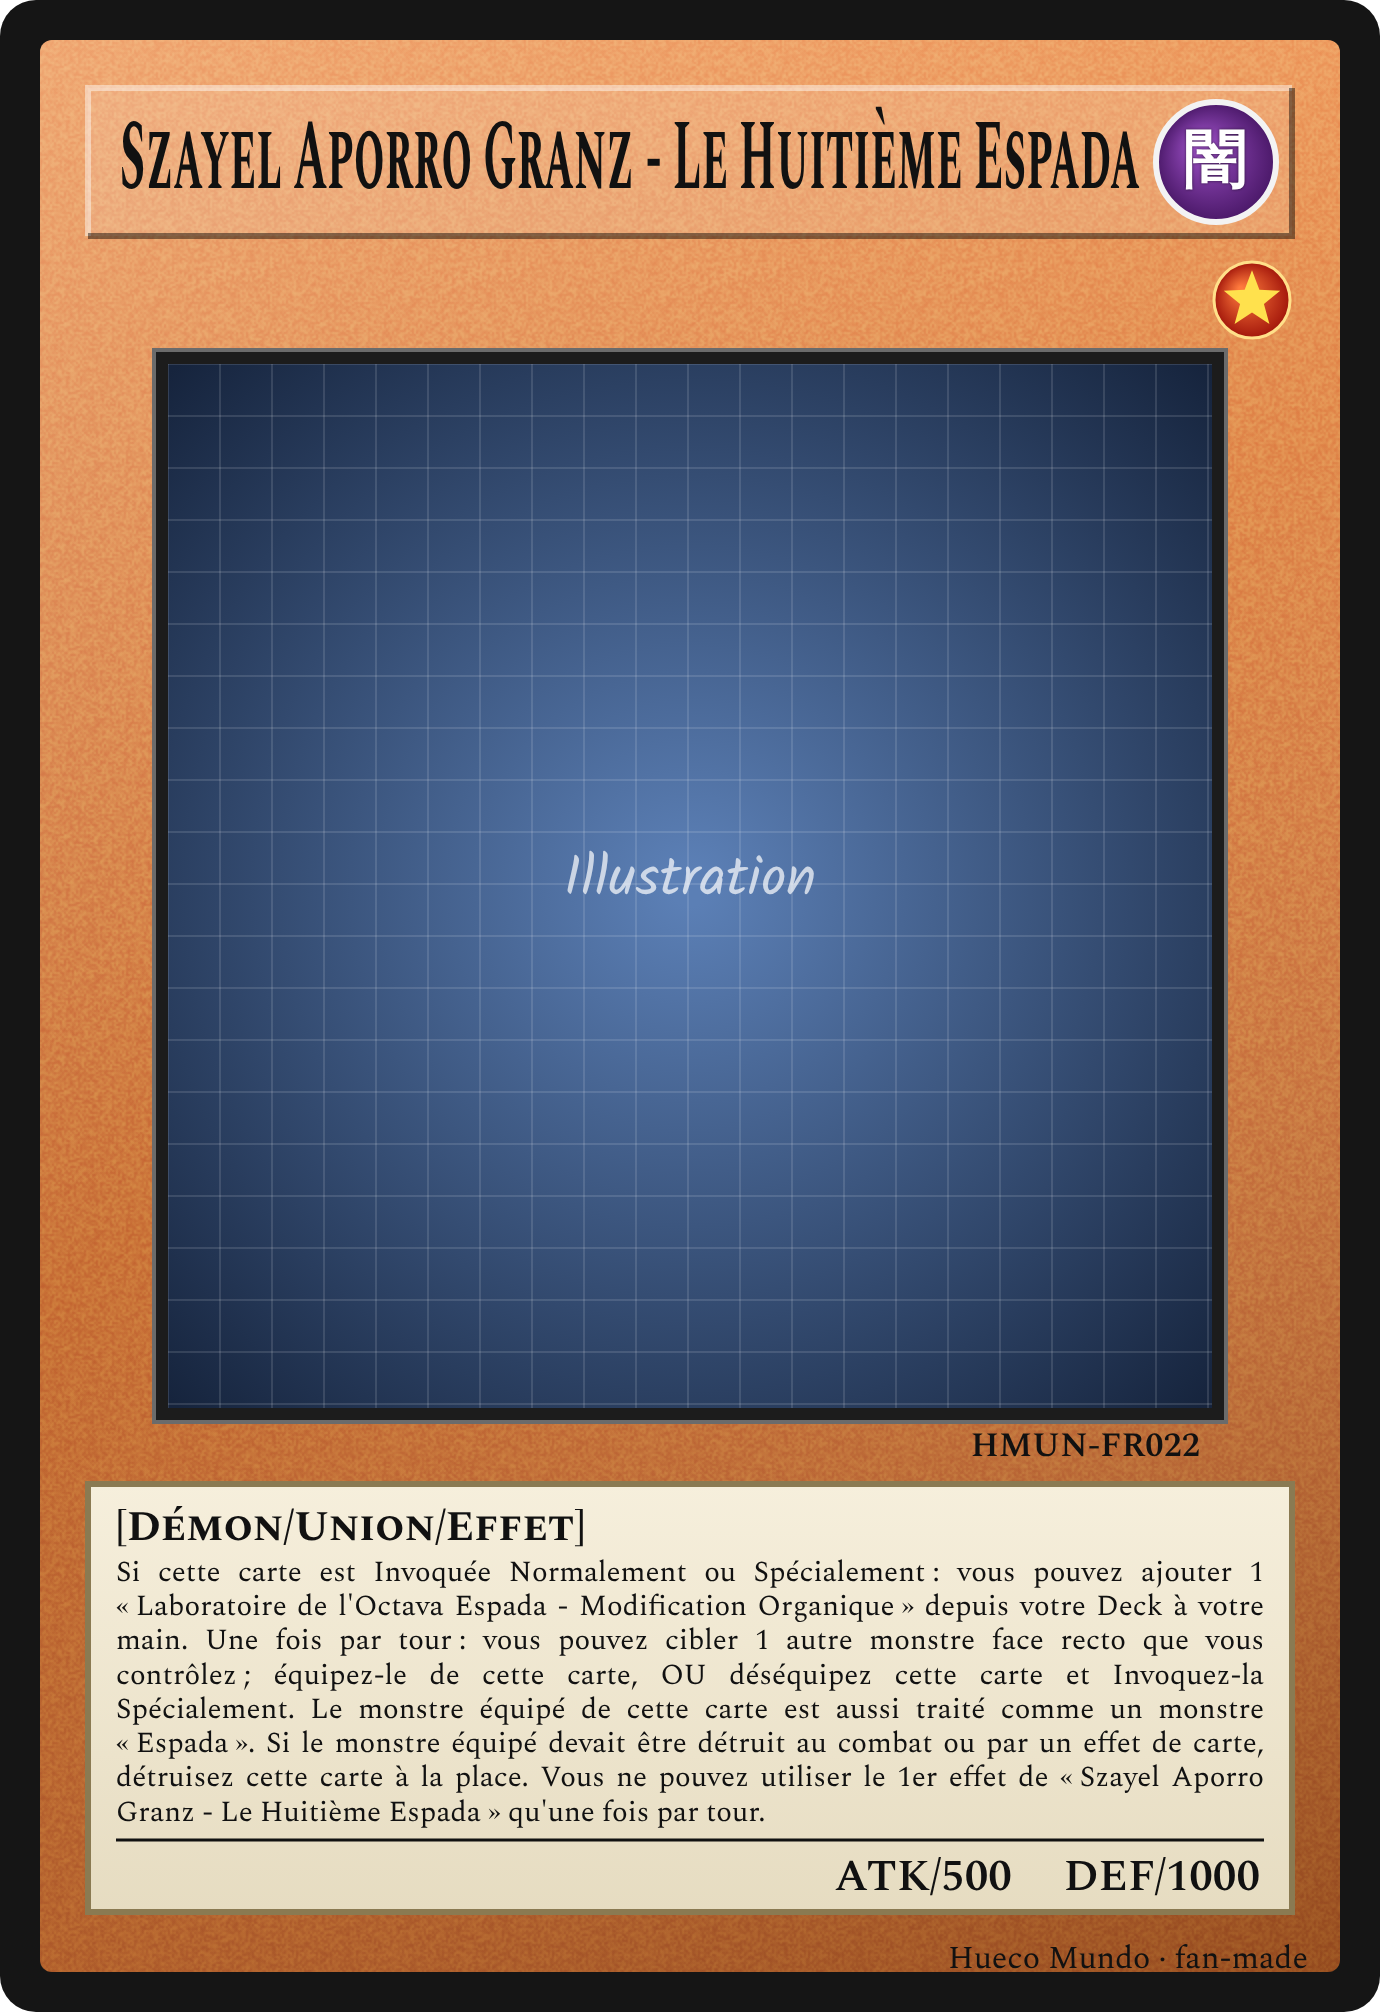
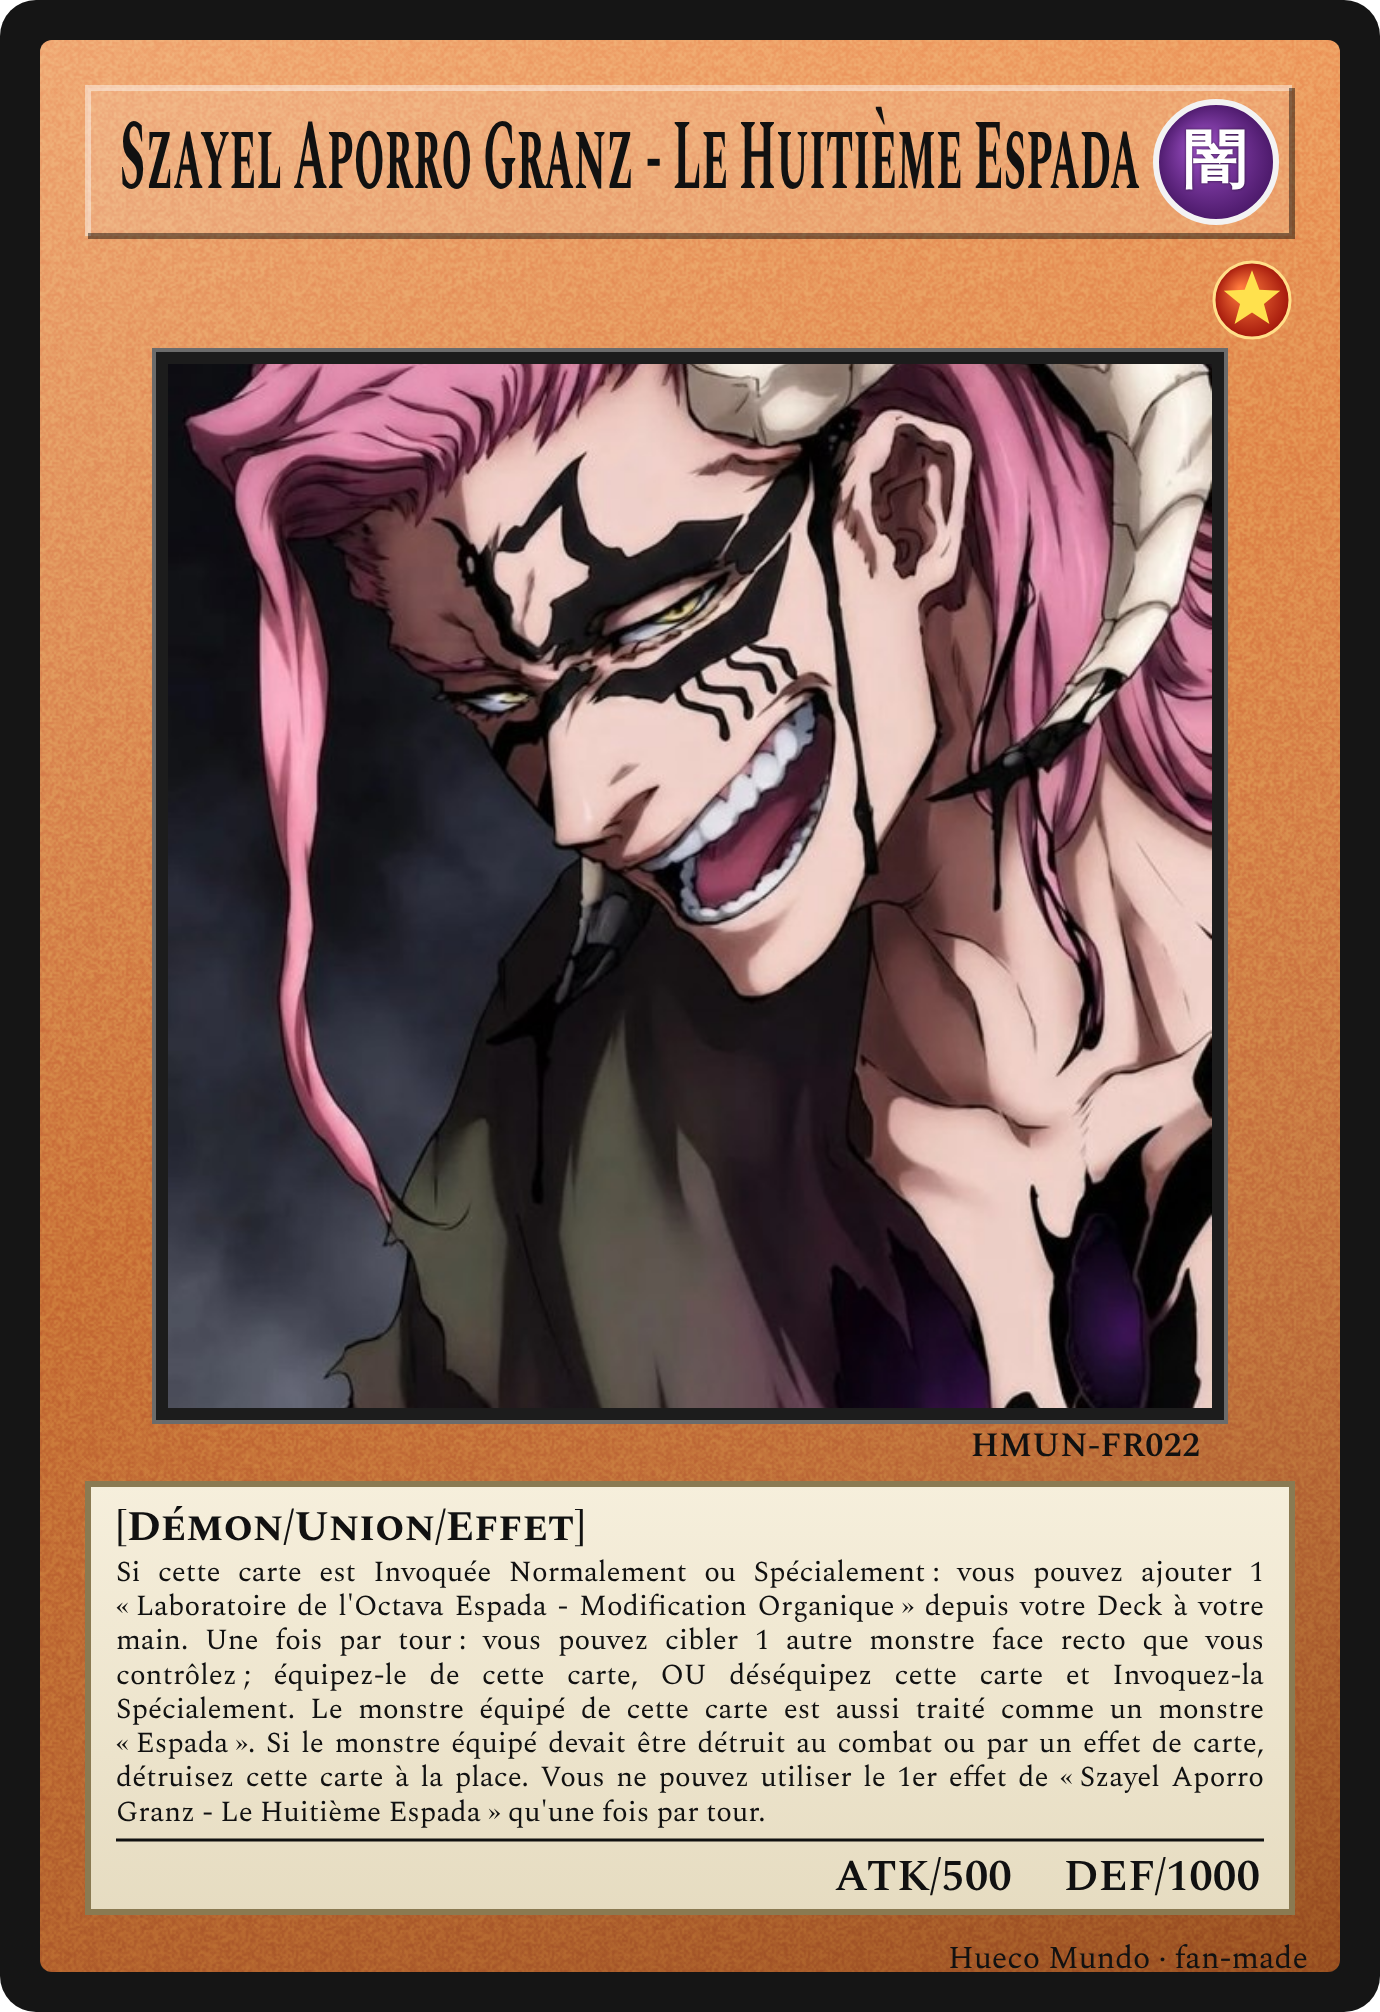
Hueco Mundo : visuel de Szayel Aporro Granz
Claude-Session: https://claude.ai/code/session_01CeiwhQp6R4Er8VccCFyYbK

diff --git a/archetypes/hueco-mundo/FICHE.md b/archetypes/hueco-mundo/FICHE.md
@@ -80,7 +80,7 @@ Magie Jeu-Rapide « Cero » (FR003).
 | HMUN-FR019 | Ayon - Monstre de la Calamité | Monstre Fusion/Effet, Niv. 8, 3000/0 | Terminée |
 | HMUN-FR020 | Fracciones - Garde Servile de l'Espada | Monstre à Effet, Niv. 4, 1200/1000 | Terminée |
 | HMUN-FR021 | Laboratoire de l'Octava Espada - Modification Organique | Magie Continue | Terminée |
-| HMUN-FR022 | Szayel Aporro Granz - Le Huitième Espada | Monstre Union/Effet, Niv. 1, 500/1000 | Texte validé · visuel à venir |
+| HMUN-FR022 | Szayel Aporro Granz - Le Huitième Espada | Monstre Union/Effet, Niv. 1, 500/1000 | Terminée |
 | HMUN-FR013 | Lilynette Gingerbuck - La Fracción du Premier Espada | Monstre à Effet, Niv. 4, 1000/1000 | Terminée (visuel basse résolution, 288×432) |
 | HMUN-FR002 | Las Noches - Palais du Hueco Mundo | Magie de Terrain | Terminée |
 | HMUN-FR003 | Cero Oscuras - Le Cero Noir du Désespoir | Magie Jeu-Rapide | Terminée |
